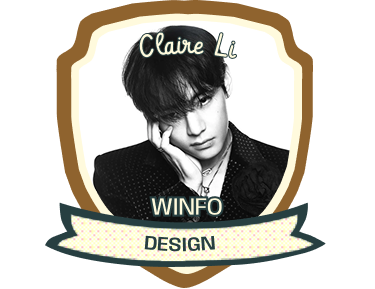
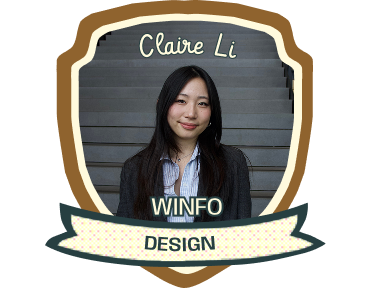
added the finished hackathon team badges to about (missing 3)

Changed region(s): [[0.2053, 0.0623, 0.792, 0.7785], [0.4107, 0.7163, 0.528, 0.7785]]

diff --git a/winfo-hackathon-website/src/pages/About.jsx b/winfo-hackathon-website/src/pages/About.jsx
@@ -2,7 +2,7 @@ import Footer from "../components/Footer";
 import { aboutWinfo, committee, pastWinners, pastWinnersLinks, testimonials, impactStats } from "../data/content";
 import "./About.css";
 
-const BADGE_ROWS = [2, 3, 3, 2, 1];
+const BADGE_ROWS = [2, 3, 4, 3];
 
 const badges = [
   // "/assets/about/badge-1.png",
@@ -15,18 +15,18 @@ const badges = [
   // "/assets/about/badge-8.png",
   // "/assets/about/badge-9.png",
   // "/assets/about/badge-10.png",
+  "/assets/about/badge-18.png",
+  "/assets/about/badge-placeholder.png",
+  "/assets/about/badge-placeholder.png",
+  "/assets/about/badge-7.png",
+  "/assets/about/badge-21.png",
   "/assets/about/badge-11.png",
-  "/assets/about/badge-11.png",
-  "/assets/about/badge-11.png",
-  "/assets/about/badge-11.png",
-  "/assets/about/badge-11.png",
-  "/assets/about/badge-11.png",
-  "/assets/about/badge-11.png",
-  "/assets/about/badge-11.png",
-  "/assets/about/badge-11.png",
-  "/assets/about/badge-11.png",
-  "/assets/about/badge-11.png",
-  "/assets/about/badge-11.png",
+  "/assets/about/badge-placeholder.png",
+  "/assets/about/badge-20.png",
+  "/assets/about/badge-8.png",
+  "/assets/about/badge-9.png",
+  "/assets/about/badge-15.png",
+  "/assets/about/badge-16.png",
 ];
 
 // split the flat list into rows
@@ -112,21 +112,21 @@ export default function About() {
             <div className="speakers-container">
               <div className="speakers-list">
                 <div className="speaker-card">
-                  <img src="assets/about/badge-11.png" className="speaker-badge" alt="" />
+                  <img src="assets/about/badge-placeholder.png" className="speaker-badge" alt="" />
                   <div className="speaker-info">
                     <h4>Speaker Name</h4>
                     <p>lorem ipsum dolor sit amet consectetur adipiscing elit.</p>
                   </div>
                 </div>
                 <div className="speaker-card">
-                  <img src="assets/about/badge-11.png" className="speaker-badge" alt="" />
+                  <img src="assets/about/badge-placeholder.png" className="speaker-badge" alt="" />
                   <div className="speaker-info">
                     <h4>Speaker Name</h4>
                     <p>lorem ipsum dolor sit amet consectetur adipiscing elit.</p>
                   </div>
                 </div>
                 <div className="speaker-card">
-                  <img src="assets/about/badge-11.png" className="speaker-badge" alt="" />
+                  <img src="assets/about/badge-placeholder.png" className="speaker-badge" alt="" />
                   <div className="speaker-info">
                     <h4>Speaker Name</h4>
                     <p>lorem ipsum dolor sit amet consectetur adipiscing elit.</p>

diff --git a/winfo-hackathon-website/src/pages/About.css b/winfo-hackathon-website/src/pages/About.css
@@ -257,12 +257,14 @@
   width: 100%;
   display: flex;
   justify-content: center;
-  gap: 6%;
+  align-items: flex-start;
+  gap: 4%;
 }
 
 .badge-row img {
-  width: 25%;
+  width: 21%;
   height: auto;
+  object-fit: contain;
   display: block;
 }
 
